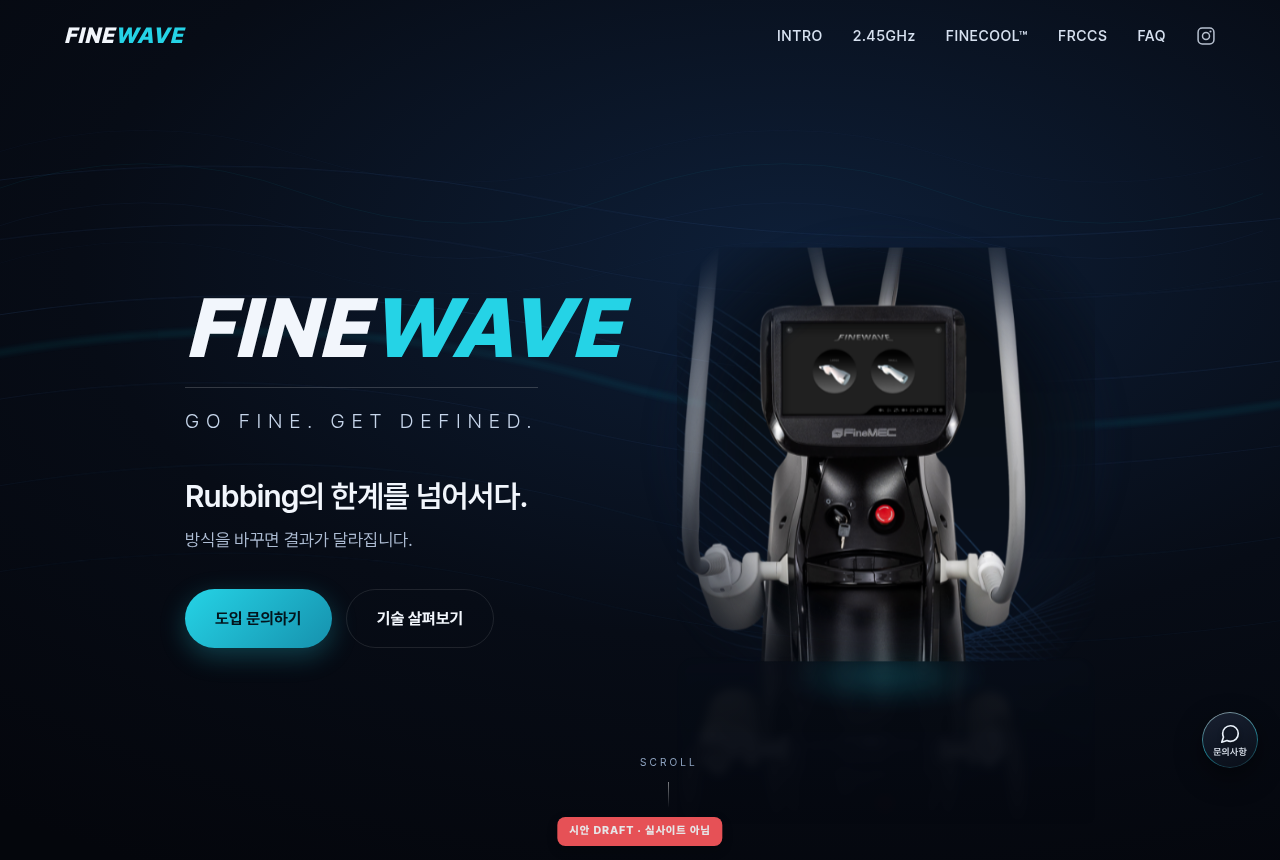
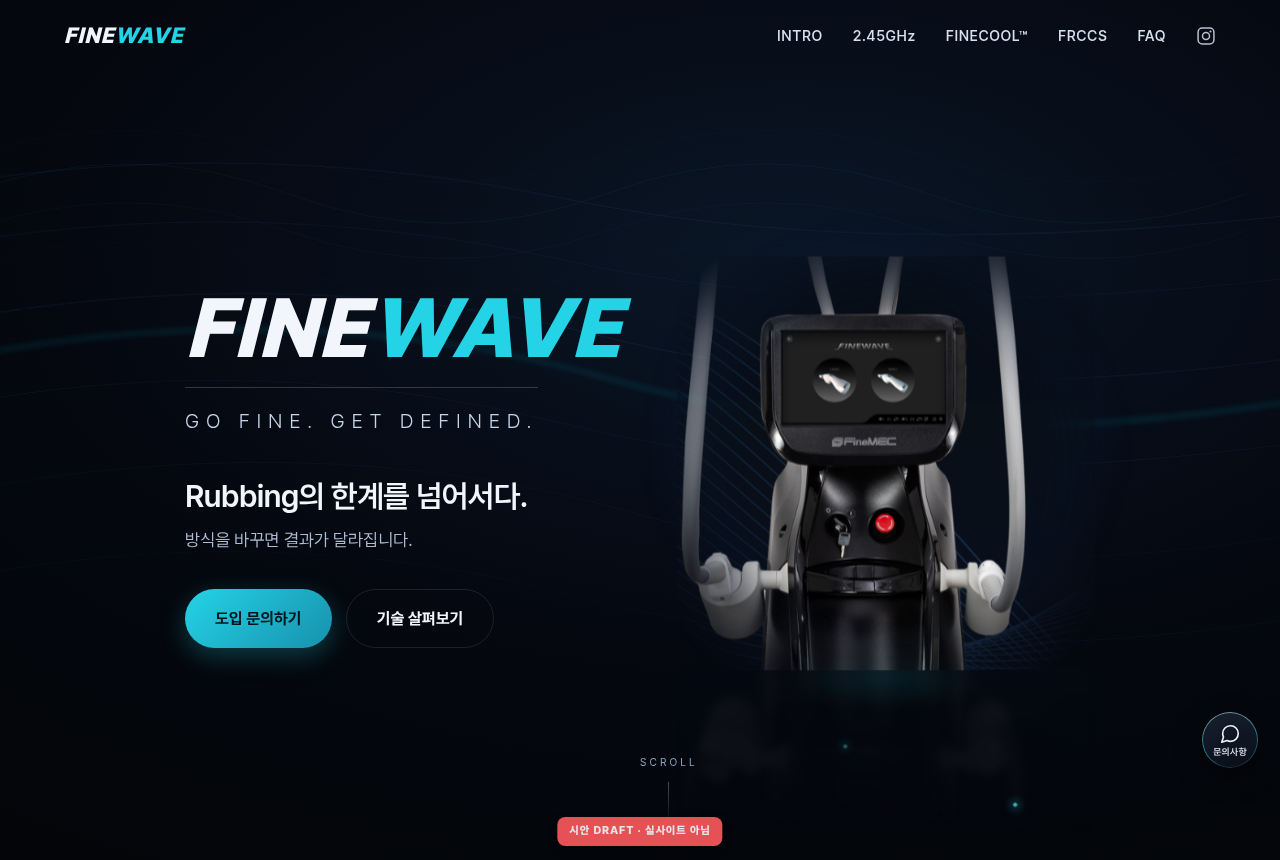
feat(finewave): 시안 v5 — 시네마틱 히어로 리빌 + 영상 제작 브리프
레퍼런스 오프닝 영상 학습("어두운 공간에서 제품이 드러나고 에너지가
정밀하게 흐르는") 반영:
- 시네마 블랙(#050505급) 배경 심화, 암전 베일 → 장비 실루엣 리빌(3.2s)
  → 라이트 스윕(1.7s) → 시안 에너지 펄스(offset-path 곡선 플로우)
  → 텍스트 순차 등장(2.3s~) 풀 시퀀스
- 에너지 무드: "강함"이 아닌 "정밀·안정" — 얇은 빛 입자, 과격 효과 배제
- video-brief.md: FINEWAVE 번안 생성 프롬프트(블랙 타워·시안·Go Fine.
  Get Defined. 네거티브에 purple/magenta/white body 추가), 16:9+9:16 사양,
  히어로 <video> 슬롯·삽입 가이드 포함
- reduced-motion: 시퀀스 전체 생략하고 완성 프레임 즉시 표시
- 컬러: 쉬리안 퍼플 대신 FINEWAVE 시안 유지(브랜드 일관성)

Claude-Session: https://claude.ai/code/session_018nzHGbAUK6D3bYwrNkvjKd

diff --git a/output/mockup/index.html b/output/mockup/index.html
@@ -78,11 +78,18 @@ h2.fw-h2{font-size:clamp(30px,4.4vw,46px);font-weight:690;line-height:1.24;lette
 .fw-nav .fw-ig:hover{opacity:1}
 .fw-burger{display:none;background:none;border:none;color:var(--ink);cursor:pointer;padding:8px}
 
-/* ═══════ 히어로(INTRO): 장비 고정 + 배경 웨이브만 드리프트 ═══════ */
+/* ═══════ 히어로(INTRO): 시네마틱 리빌 — 암전 → 라이트 스윕 → 에너지 플로우 ═══════
+   레퍼런스 학습: "어두운 공간에서 제품이 천천히 드러나고, 정밀한 에너지가 흐르는" 오프닝.
+   실사 영상(video-brief.md 프롬프트로 제작) 완성 시 .fw-hero__film 슬롯에 교체 삽입. */
 .fw-hero{min-height:100vh;display:flex;align-items:center;overflow:hidden;isolation:isolate;
-  background:radial-gradient(1300px 700px at 62% 30%,#0e1f38 0%,var(--bg-1) 55%,var(--bg-0) 100%)}
+  background:radial-gradient(1300px 700px at 62% 30%,#0a1626 0%,#050810 55%,#030509 100%)}
+/* 시네마 암전 베일: 최초 1.3s 완전 블랙 → 서서히 걷힘 */
+.fw-hero__veil{position:absolute;inset:0;z-index:3;background:#050505;pointer-events:none;
+  animation:fw-veil 2.2s cubic-bezier(.4,0,.2,1) .15s forwards}
+@keyframes fw-veil{to{opacity:0}}
 .fw-hero__waves{position:absolute;inset:-6%;z-index:0;will-change:transform;
-  animation:fw-drift 28s ease-in-out infinite alternate;opacity:.85}
+  animation:fw-drift 28s ease-in-out infinite alternate,fw-waves-in 2.4s ease 1.3s backwards;opacity:.85}
+@keyframes fw-waves-in{from{opacity:0}}
 @keyframes fw-drift{0%{transform:translate3d(0,0,0) scale(1.02)}50%{transform:translate3d(1.4%,-1%,0) scale(1.045)}100%{transform:translate3d(-1%,.8%,0) scale(1.02)}}
 .fw-hero__grid{position:relative;z-index:1;display:grid;grid-template-columns:1.05fr .95fr;gap:30px;align-items:center;width:100%;padding-top:var(--header-h)}
 /* 실사이트 로고타입/태그라인 재현 */
@@ -109,6 +116,37 @@ h2.fw-h2{font-size:clamp(30px,4.4vw,46px);font-weight:690;line-height:1.24;lette
   -webkit-mask:radial-gradient(72% 78% at 50% 50%,#000 46%,transparent 86%);
   mask:radial-gradient(72% 78% at 50% 50%,#000 46%,transparent 86%);
   filter:drop-shadow(0 34px 50px rgba(0,0,0,.55))}
+/* 장비 시네마 리빌: 실루엣(거의 암흑) → 서서히 드러남 */
+.fw-3d > img:first-child{animation:fw-devreveal 3.2s cubic-bezier(.3,0,.2,1) .5s backwards}
+@keyframes fw-devreveal{
+  0%{filter:brightness(.05) saturate(.4) drop-shadow(0 34px 50px rgba(0,0,0,.55))}
+  55%{filter:brightness(.5) saturate(.8) drop-shadow(0 34px 50px rgba(0,0,0,.55))}
+  100%{filter:brightness(1) saturate(1) drop-shadow(0 34px 50px rgba(0,0,0,.55))}}
+/* 라이트 스윕: 사선 하이라이트 밴드가 장비를 훑고 지나감 */
+.fw-sweep{position:absolute;inset:0;z-index:2;overflow:hidden;border-radius:18px;pointer-events:none;
+  -webkit-mask:radial-gradient(72% 78% at 50% 50%,#000 46%,transparent 86%);
+  mask:radial-gradient(72% 78% at 50% 50%,#000 46%,transparent 86%)}
+.fw-sweep::before{content:"";position:absolute;top:-20%;bottom:-20%;left:0;width:46%;
+  background:linear-gradient(100deg,transparent 8%,rgba(190,230,255,.20) 45%,rgba(120,215,235,.10) 55%,transparent 92%);
+  transform:translateX(-130%) skewX(-12deg);mix-blend-mode:screen;
+  animation:fw-sweep-run 1.7s cubic-bezier(.5,.05,.3,1) 1.5s forwards}
+@keyframes fw-sweep-run{to{transform:translateX(340%) skewX(-12deg)}}
+/* 에너지 펄스: 얇은 빛 입자가 장비 주변을 정밀하게 흐름 (offset-path) */
+.fw-pulse{position:absolute;width:5px;height:5px;border-radius:50%;z-index:2;pointer-events:none;
+  background:radial-gradient(circle,#d8f6ff 0%,var(--cyan) 55%,transparent 75%);
+  box-shadow:0 0 10px 2px rgba(37,211,230,.55);opacity:0;
+  offset-rotate:0deg;animation:fw-pulse-run 4.6s cubic-bezier(.45,.1,.5,.9) infinite}
+.fw-pulse--1{offset-path:path("M 40 380 C 20 250 70 120 180 70");animation-delay:2.6s}
+.fw-pulse--2{offset-path:path("M 400 400 C 430 270 380 140 265 75");animation-delay:3.4s}
+.fw-pulse--3{offset-path:path("M 90 430 C 190 470 300 465 380 420");animation-delay:4.2s}
+@keyframes fw-pulse-run{
+  0%{offset-distance:0%;opacity:0}
+  12%{opacity:.95}
+  55%{opacity:.65}
+  70%{offset-distance:100%;opacity:0}
+  100%{offset-distance:100%;opacity:0}}
+@supports not (offset-path:path("M 0 0 L 1 1")){.fw-pulse{display:none}}
+@media (max-width:900px){.fw-pulse{display:none}}
 /* 바닥 리플렉션 */
 .fw-3d img.fw-3d__reflect{   /* .fw-3d img 의 radial 마스크보다 높은 특이도로 오버라이드 */
   position:absolute;top:99%;left:0;width:100%;transform:scaleY(-1);
@@ -258,7 +296,8 @@ h2.fw-h2{font-size:clamp(30px,4.4vw,46px);font-weight:690;line-height:1.24;lette
 @media (prefers-reduced-motion: reduce){
   html{scroll-behavior:auto}
   .fw-hero__waves,.fw-secwaves,.fw-beam__on,.fw-3d,.fw-hero__device::after,
-  .fw-load,.fw-scrollhint::after{animation:none!important}
+  .fw-load,.fw-scrollhint::after,.fw-3d>img:first-child,.fw-sweep::before,.fw-pulse{animation:none!important}
+  .fw-hero__veil{display:none}
   .fw-beam__on{opacity:.35}
   .fw-reveal,.fw-load{opacity:1;transform:none;transition:none}
   .fw-reveal img{transform:none;transition:none}
@@ -291,6 +330,12 @@ h2.fw-h2{font-size:clamp(30px,4.4vw,46px);font-weight:690;line-height:1.24;lette
 
 <!-- ══════════ INTRO 히어로: 실카피 + 실장비, 배경만 모션 ══════════ -->
 <section class="fw-hero">
+  <!-- 시네마 암전 베일 -->
+  <div class="fw-hero__veil" aria-hidden="true"></div>
+  <!-- 실사 시네마틱 영상(8~10s) 완성 시 이 자리에 삽입 (video-brief.md 참조):
+       <video class="fw-hero__film" autoplay muted playsinline
+              poster="assets/device-front.png" src="assets/hero-film.mp4"></video>
+       영상 사용 시 .fw-hero__veil/.fw-sweep/.fw-pulse 는 제거 -->
   <svg class="fw-hero__waves" viewBox="0 0 1440 900" preserveAspectRatio="xMidYMid slice" aria-hidden="true">
     <g fill="none" stroke="#3d5f95">
       <path d="M-40 260 Q 300 190 640 260 T 1480 260" stroke-opacity=".20"/>
@@ -309,24 +354,28 @@ h2.fw-h2{font-size:clamp(30px,4.4vw,46px);font-weight:690;line-height:1.24;lette
   <div class="fw-wrap">
     <div class="fw-hero__grid">
       <div>
-        <div class="fw-hero__logo fw-load" style="--fw-d:.15s">FINE<span style="color:var(--cyan)">WAVE</span></div>
-        <div class="fw-hero__tag fw-load" style="--fw-d:.4s">Go Fine. Get Defined.</div>
-        <p class="fw-hero__copy fw-load" style="--fw-d:.65s">Rubbing의 한계를 넘어서다.
+        <div class="fw-hero__logo fw-load" style="--fw-d:2.3s">FINE<span style="color:var(--cyan)">WAVE</span></div>
+        <div class="fw-hero__tag fw-load" style="--fw-d:2.55s">Go Fine. Get Defined.</div>
+        <p class="fw-hero__copy fw-load" style="--fw-d:2.8s">Rubbing의 한계를 넘어서다.
           <small>방식을 바꾸면 결과가 달라집니다.</small></p>
-        <div class="fw-hero__cta fw-load" style="--fw-d:.9s">
+        <div class="fw-hero__cta fw-load" style="--fw-d:3.05s">
           <a class="fw-btn fw-btn--primary" href="#contact">도입 문의하기</a>
           <a class="fw-btn fw-btn--ghost" href="#tech">기술 살펴보기</a>
         </div>
       </div>
-      <div class="fw-hero__device fw-load" style="--fw-d:.55s">
+      <div class="fw-hero__device fw-load" style="--fw-d:.25s">
         <div class="fw-3d" id="fw3d">
           <img src="assets/device-front.png" alt="FINEWAVE 장비 정면 — 듀얼 핸드피스와 터치 스크린">
           <img class="fw-3d__reflect" src="assets/device-front.png" alt="" aria-hidden="true">
+          <div class="fw-sweep" aria-hidden="true"></div>
+          <i class="fw-pulse fw-pulse--1" aria-hidden="true"></i>
+          <i class="fw-pulse fw-pulse--2" aria-hidden="true"></i>
+          <i class="fw-pulse fw-pulse--3" aria-hidden="true"></i>
         </div>
       </div>
     </div>
   </div>
-  <div class="fw-scrollhint fw-load" style="--fw-d:1.4s">Scroll</div>
+  <div class="fw-scrollhint fw-load" style="--fw-d:3.6s">Scroll</div>
 </section>
 
 <!-- ══════════ 2.45GHz: 실카피 + 장비 확대 + 새 웨이브(T2) ══════════ -->

diff --git a/output/mockup/video-brief.md b/output/mockup/video-brief.md
@@ -1,0 +1,132 @@
+# FINEWAVE 히어로 시네마틱 영상 제작 브리프
+
+> 레퍼런스(sherean.co.kr) 오프닝 영상 학습 내용을 **FINEWAVE 브랜드에 맞게 번안**한 생성 프롬프트.
+> 원본 프롬프트는 쉬리안 기준(백색 장비 · 마젠타/퍼플 · "자신있게, 쉬리안")이므로 그대로 쓰면 안 되고,
+> 아래처럼 **블랙 타워 장비 · 시안(청록) 에너지 · "Go Fine. Get Defined."** 로 치환해 사용한다.
+>
+> 핵심 무드(레퍼런스와 동일): **"강한 에너지"가 아니라 "정밀하고 안정적인 에너지".**
+> 완성된 영상은 `output/mockup/index.html` 히어로의 `<video class="fw-hero__film">` 슬롯에 삽입
+> (주석으로 위치 표시돼 있음). 영상이 들어가면 CSS 시네마틱 리빌(베일/스윕/펄스)은 제거.
+
+---
+
+## 사양
+
+| 항목 | 값 |
+|---|---|
+| 색상 | 블랙 `#050505` · 딥 네이비 · **시안 포인트 `#25d3E6`** (빔 연출 시 오렌지 `#ff8a2b` 소량 허용) |
+| 길이 | 8~10초, 심리스 루프 권장 |
+| 비율 | PC 16:9 (4K, 24fps) · **모바일 세로 9:16 별도 버전** |
+| 카메라 | 느린 돌리인 + 제품 중심 부드러운 회전, 흔들림 없음 |
+| 에너지 표현 | 번개가 아닌 **얇은 빛의 흐름** + 은은한 열감(heat-wave) |
+| 문구·로고 | 생성 단계에는 넣지 않음 → 후반 편집 삽입 |
+| 마지막 프레임 | 제품 좌측 배치, **우측에 카피용 네거티브 스페이스** ("Go Fine. Get Defined." 자리) |
+
+---
+
+## 메인 생성 프롬프트 (EN)
+
+```
+Create a premium cinematic 3D product film for a professional aesthetic medical device.
+
+A futuristic BLACK tower-type microwave lifting machine slowly emerges from a completely
+dark black studio. The device has a sleek matte-black rounded tower body, a compact
+touchscreen monitor on top, two elegant WHITE handpieces docked on both sides with
+flexible white cables, and subtle glossy medical-grade surfaces.
+
+The camera begins with an extreme close-up of the machine's dark silhouette. A soft
+CYAN-BLUE light gradually sweeps across the device, revealing its contours and refined
+details. Thin waves of cyan energy flow through the white handpiece cables and gently
+illuminate the treatment tips. The energy should feel precise, controlled, safe, and
+technologically advanced.
+
+Slow cinematic camera movement, smooth dolly-in, subtle rotation around the device,
+macro close-ups of the handpiece tips, realistic reflections on a dark glossy floor,
+soft volumetric light, elegant shadows, black background, premium medical beauty
+technology mood.
+
+The final shot reveals the complete device positioned slightly left of center,
+surrounded by a restrained cyan glow. Leave clean negative space on the RIGHT side
+for adding a brand slogan later.
+
+Minimal, sophisticated, high-end, futuristic, clinical, calm, trustworthy, luxurious.
+No people, no skin treatment scene, no exaggerated sci-fi effects, no sparks, no smoke,
+no clutter, no extra objects, no readable text, no random logo, no watermark.
+
+16:9 widescreen, 8-10 seconds, 4K, 24fps, seamless cinematic motion,
+photorealistic 3D product rendering.
+```
+
+## 장면 구성 프롬프트 (EN)
+
+```
+Shot 1, 0-2 seconds:
+Extreme close-up of a mysterious black medical device silhouette in complete darkness.
+Only a thin cyan rim light outlines the monitor edge and the white handpieces.
+
+Shot 2, 2-4 seconds:
+A soft cyan-blue light beam slowly travels across the matte black tower body,
+revealing the glossy surface and rounded premium design.
+
+Shot 3, 4-6 seconds:
+Macro close-up of a white handpiece tip. Controlled cyan energy pulses gently through
+the tip with subtle heat-wave visualization. The effect is precise and elegant,
+not aggressive. (Optional: a faint warm orange glow inside the tip, referencing the
+FINECOOL beam.)
+
+Shot 4, 6-8 seconds:
+The camera smoothly pulls back and rotates slightly, revealing the full tower and both
+docked handpieces. Cyan light flows around the product like a calm energy field,
+echoing thin sine-wave lines in the background.
+
+Shot 5, 8-10 seconds:
+Hero product shot. The complete device stands slightly left of frame against a black
+background with a refined cyan glow and a subtle dark floor reflection.
+Leave empty space on the right for the text "Go Fine. Get Defined."
+```
+
+## 네거티브 프롬프트 (EN)
+
+```
+low quality, cartoon style, cheap plastic, noisy image, excessive neon, purple, magenta,
+excessive smoke, sparks, fire, explosions, aggressive energy, distorted medical device,
+deformed handpiece, extra buttons, extra screens, white device body, unreadable text,
+random letters, random logo, watermark, people, doctor, patient, skin, blood,
+laboratory background, cluttered composition, fast camera movement, shaky camera,
+overexposure, harsh reflections
+```
+
+> ⚠ 네거티브에 `purple, magenta, white device body` 추가 — 레퍼런스 원본 프롬프트의 쉬리안
+> 요소(백색 바디·퍼플 톤)가 생성물에 섞여 나오는 것을 방지. 장비 외형은 실제 FINEWAVE 캡처
+> (`assets/device-front.png`, `assets/device-angled.png`)를 이미지 컨디셔닝 입력으로 넣으면 정확도가 크게 올라간다.
+
+---
+
+## 웹 삽입 가이드 (운영자)
+
+1. 완성 영상을 웹 최적화: H.264 MP4 1920×1080 (≤6MB 권장) + 모바일 9:16 버전
+2. `index.html` 히어로 주석 위치에 삽입:
+   ```html
+   <video class="fw-hero__film" autoplay muted loop playsinline
+          poster="assets/device-front.png">
+     <source src="assets/hero-film.mp4" media="(min-width: 768px)">
+     <source src="assets/hero-film-vertical.mp4">
+   </video>
+   ```
+3. `autoplay`는 반드시 `muted playsinline`과 함께(모바일 자동재생 조건)
+4. 영상 삽입 시 CSS 시네마틱 리빌 요소(`.fw-hero__veil` `.fw-sweep` `.fw-pulse`) 제거
+5. `prefers-reduced-motion: reduce` 사용자는 poster 정지 이미지로 대체:
+   ```css
+   @media (prefers-reduced-motion: reduce){ .fw-hero__film{ display:none } }
+   ```
+6. 실사이트(Elementor) 반영 시: 히어로 섹션 배경 → 동영상 배경 기능 사용, 위 4·5항 동일 적용
+
+## 현재 시안의 CSS 대체 구현
+
+영상이 나오기 전까지 `index.html`은 같은 무드를 CSS/JS로 재현한다:
+- **0~1.3s 암전 베일** → 서서히 걷힘 (`fw-veil`)
+- **장비 실루엣 리빌**: brightness 0.05 → 1.0, 3.2s (`fw-devreveal`)
+- **1.5s 라이트 스윕**: 사선 하이라이트 밴드가 장비를 훑음 (`fw-sweep`)
+- **에너지 펄스**: 얇은 시안 빛 입자 3개가 장비 주변 곡선 경로를 흐름 (`fw-pulse`, offset-path)
+- **2.3s~ 텍스트 순차 등장**: 로고 → 태그라인 → 카피 → CTA → SCROLL
+- reduced-motion 시 전부 생략하고 완성 프레임 즉시 표시

diff --git a/output/mockup/PREVIEW.md b/output/mockup/PREVIEW.md
@@ -1,4 +1,20 @@
-# FINEWAVE 홈페이지 리뉴얼 — 시안 v4 미리보기 (DRAFT)
+# FINEWAVE 홈페이지 리뉴얼 — 시안 v5 미리보기 (DRAFT)
+
+> **v5 변경점 (레퍼런스 오프닝 영상 학습 반영 — 시네마틱 히어로 리빌)**
+> "어두운 공간에서 제품이 천천히 드러나고, 에너지가 정밀하게 흐르는" 오프닝을 CSS/JS로 재현:
+> 1. **0~1.3s 암전 베일** → 서서히 걷힘 (시네마 블랙 `#050505` 배경으로 심화)
+> 2. **장비 실루엣 리빌**: 어둠 속 실루엣 → 3.2s에 걸쳐 서서히 드러남
+> 3. **1.5s 라이트 스윕**: 사선 하이라이트가 장비 표면을 훑고 지나감
+> 4. **에너지 펄스**: 얇은 시안 빛 입자 3개가 장비 주변 곡선 경로를 따라 흐름 (정밀·안정 무드, 과격함 배제)
+> 5. **2.3s~ 텍스트 순차 등장**: 로고 → 태그라인 → 카피 → CTA → SCROLL
+> 6. **`video-brief.md` 신설**: 실사 시네마틱 영상(8~10s) 제작용 FINEWAVE 번안 프롬프트
+>    (쉬리안 원본의 백색 장비·퍼플을 블랙 타워·시안으로 치환, 히어로 `<video>` 슬롯 준비)
+> 컬러는 FINEWAVE 브랜드(시안)를 유지 — 레퍼런스의 퍼플/마젠타는 쉬리안 브랜드색이므로 미채택(원하면 변수 전환 가능).
+
+### 시네마틱 리빌 시퀀스
+| ① 암전·실루엣 (0.9s) | ② 라이트 스윕 (2.1s) | ③ 완성 프레임 (5s) |
+|---|---|---|
+| ![c1](preview-images/00-cinema-1-silhouette.png) | ![c2](preview-images/00-cinema-2-sweep.png) | ![c3](preview-images/01-hero.png) |
 
 > **v4 변경점 (sherean.co.kr 레퍼런스 톤 보완)**
 > 클라이언트 레퍼런스(sherean)의 모션 감도·여백 문법 기준으로 보완:
